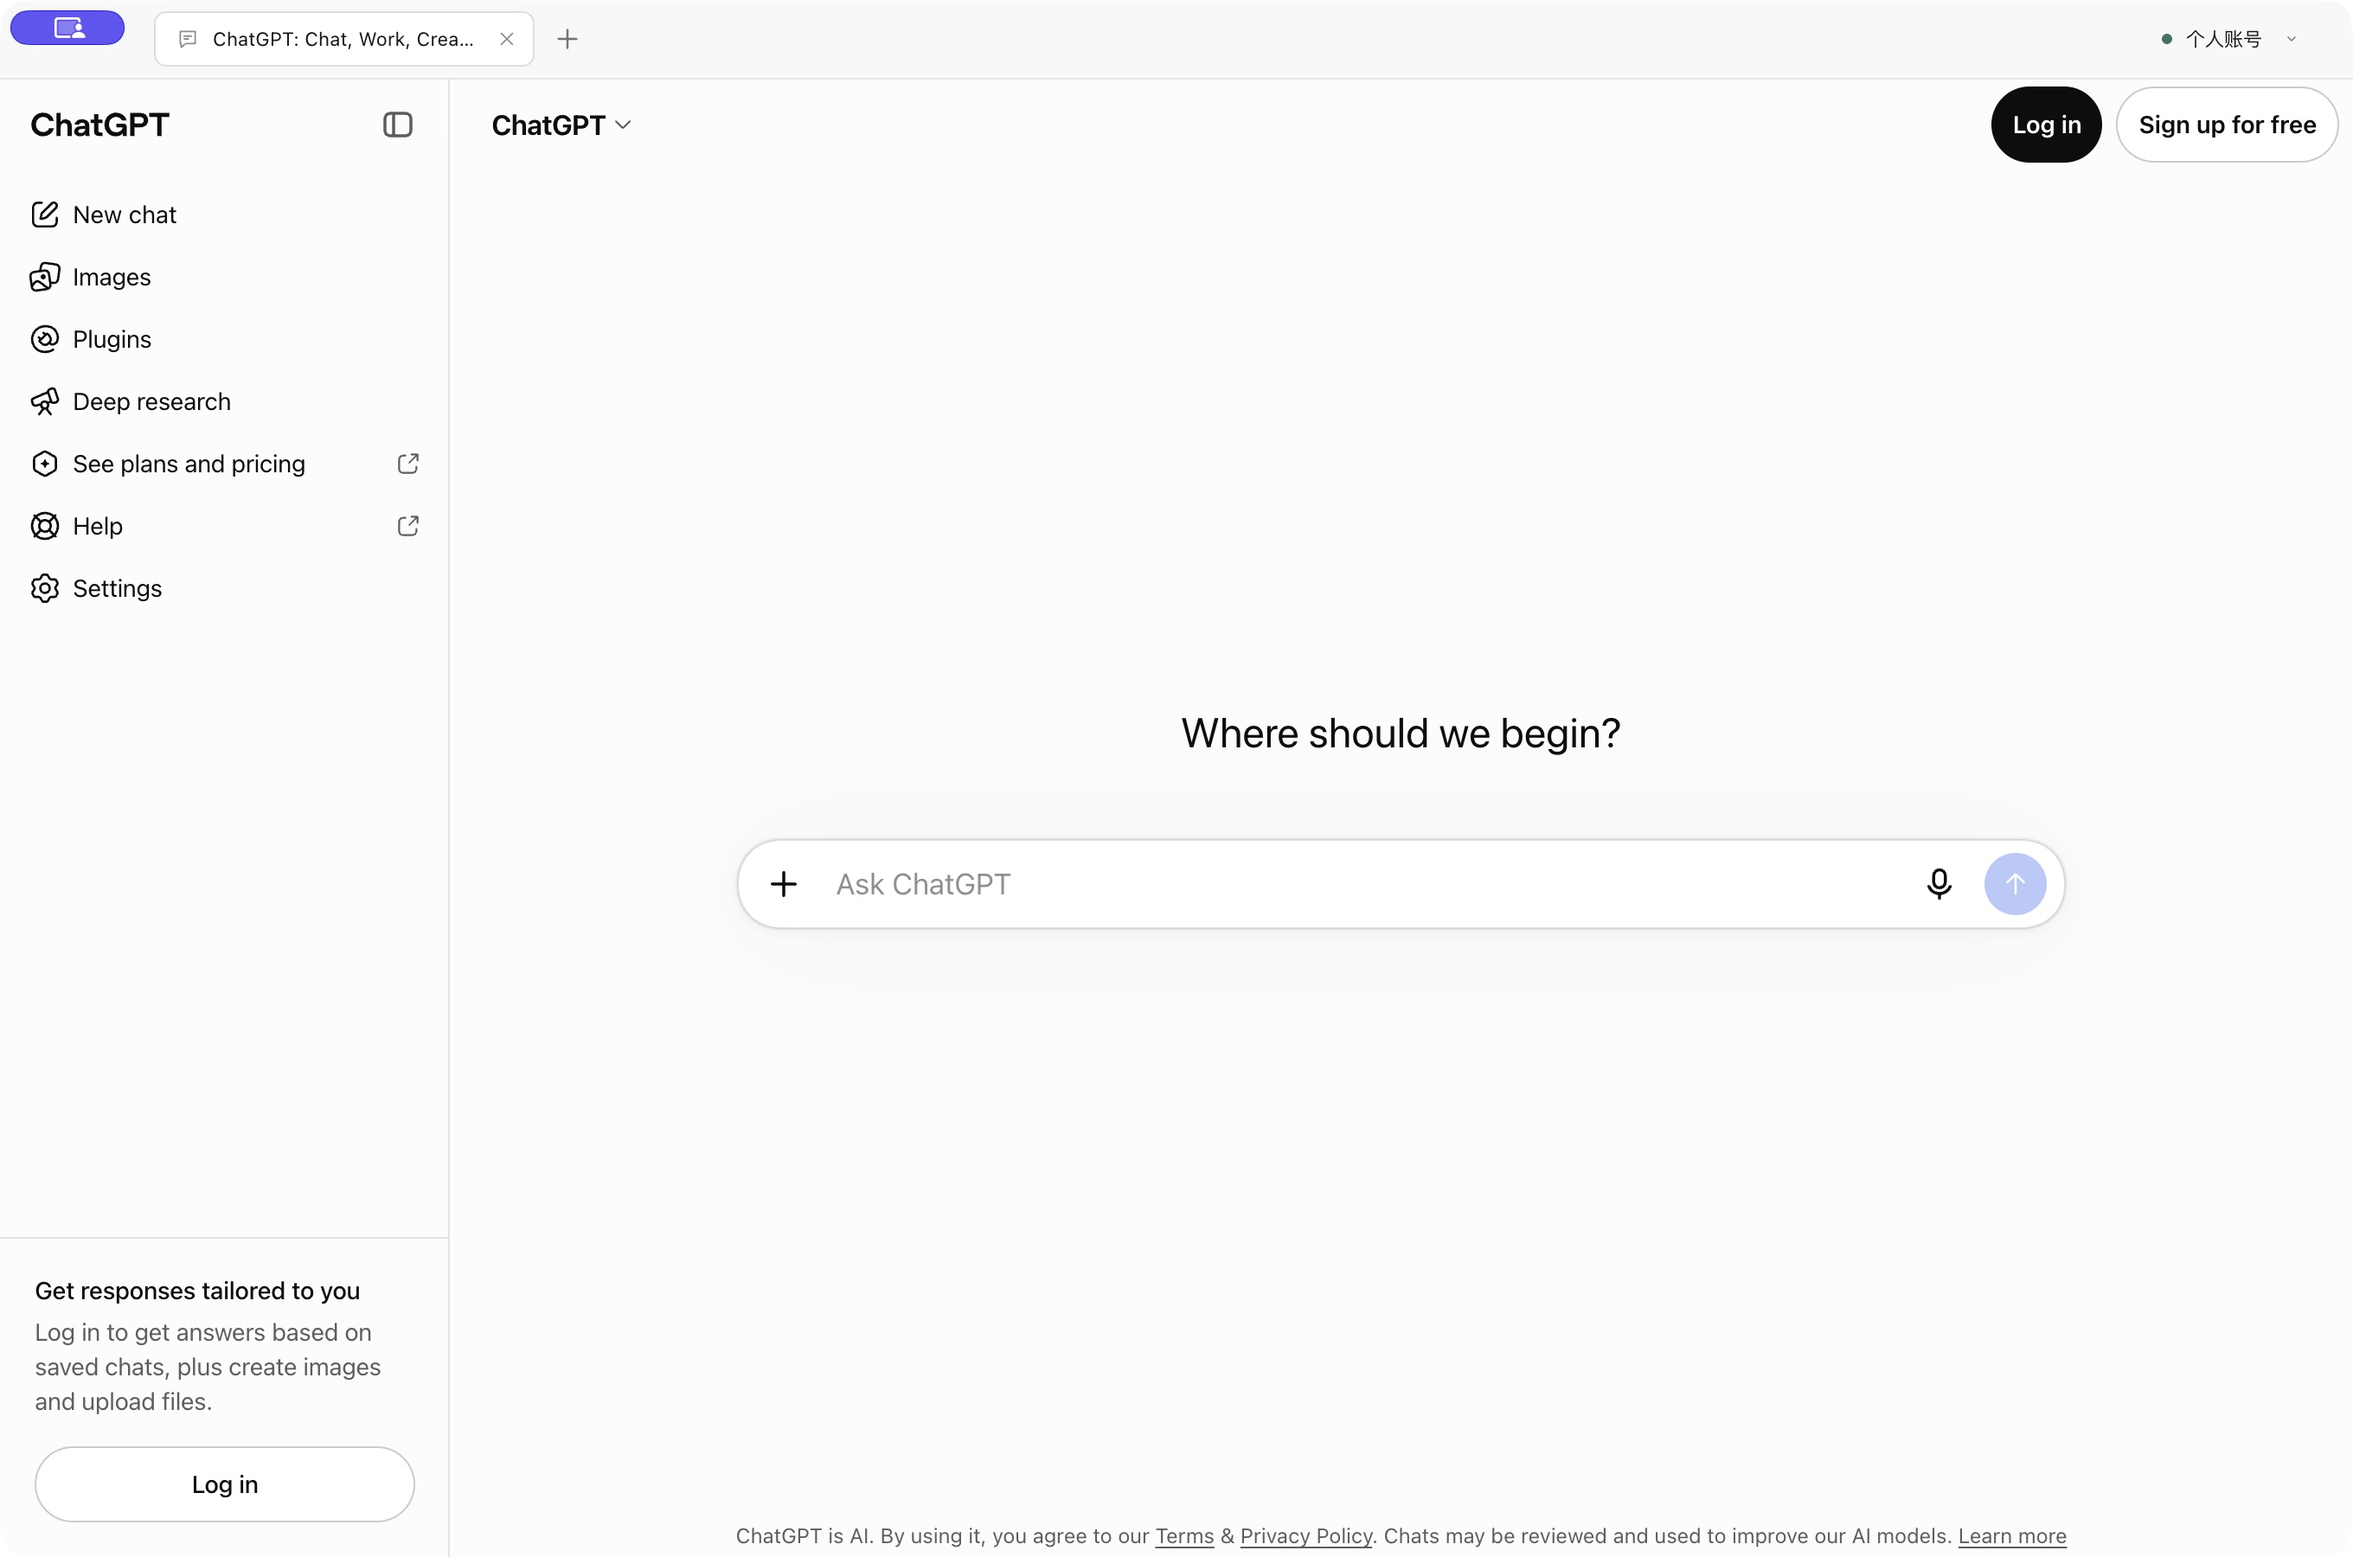
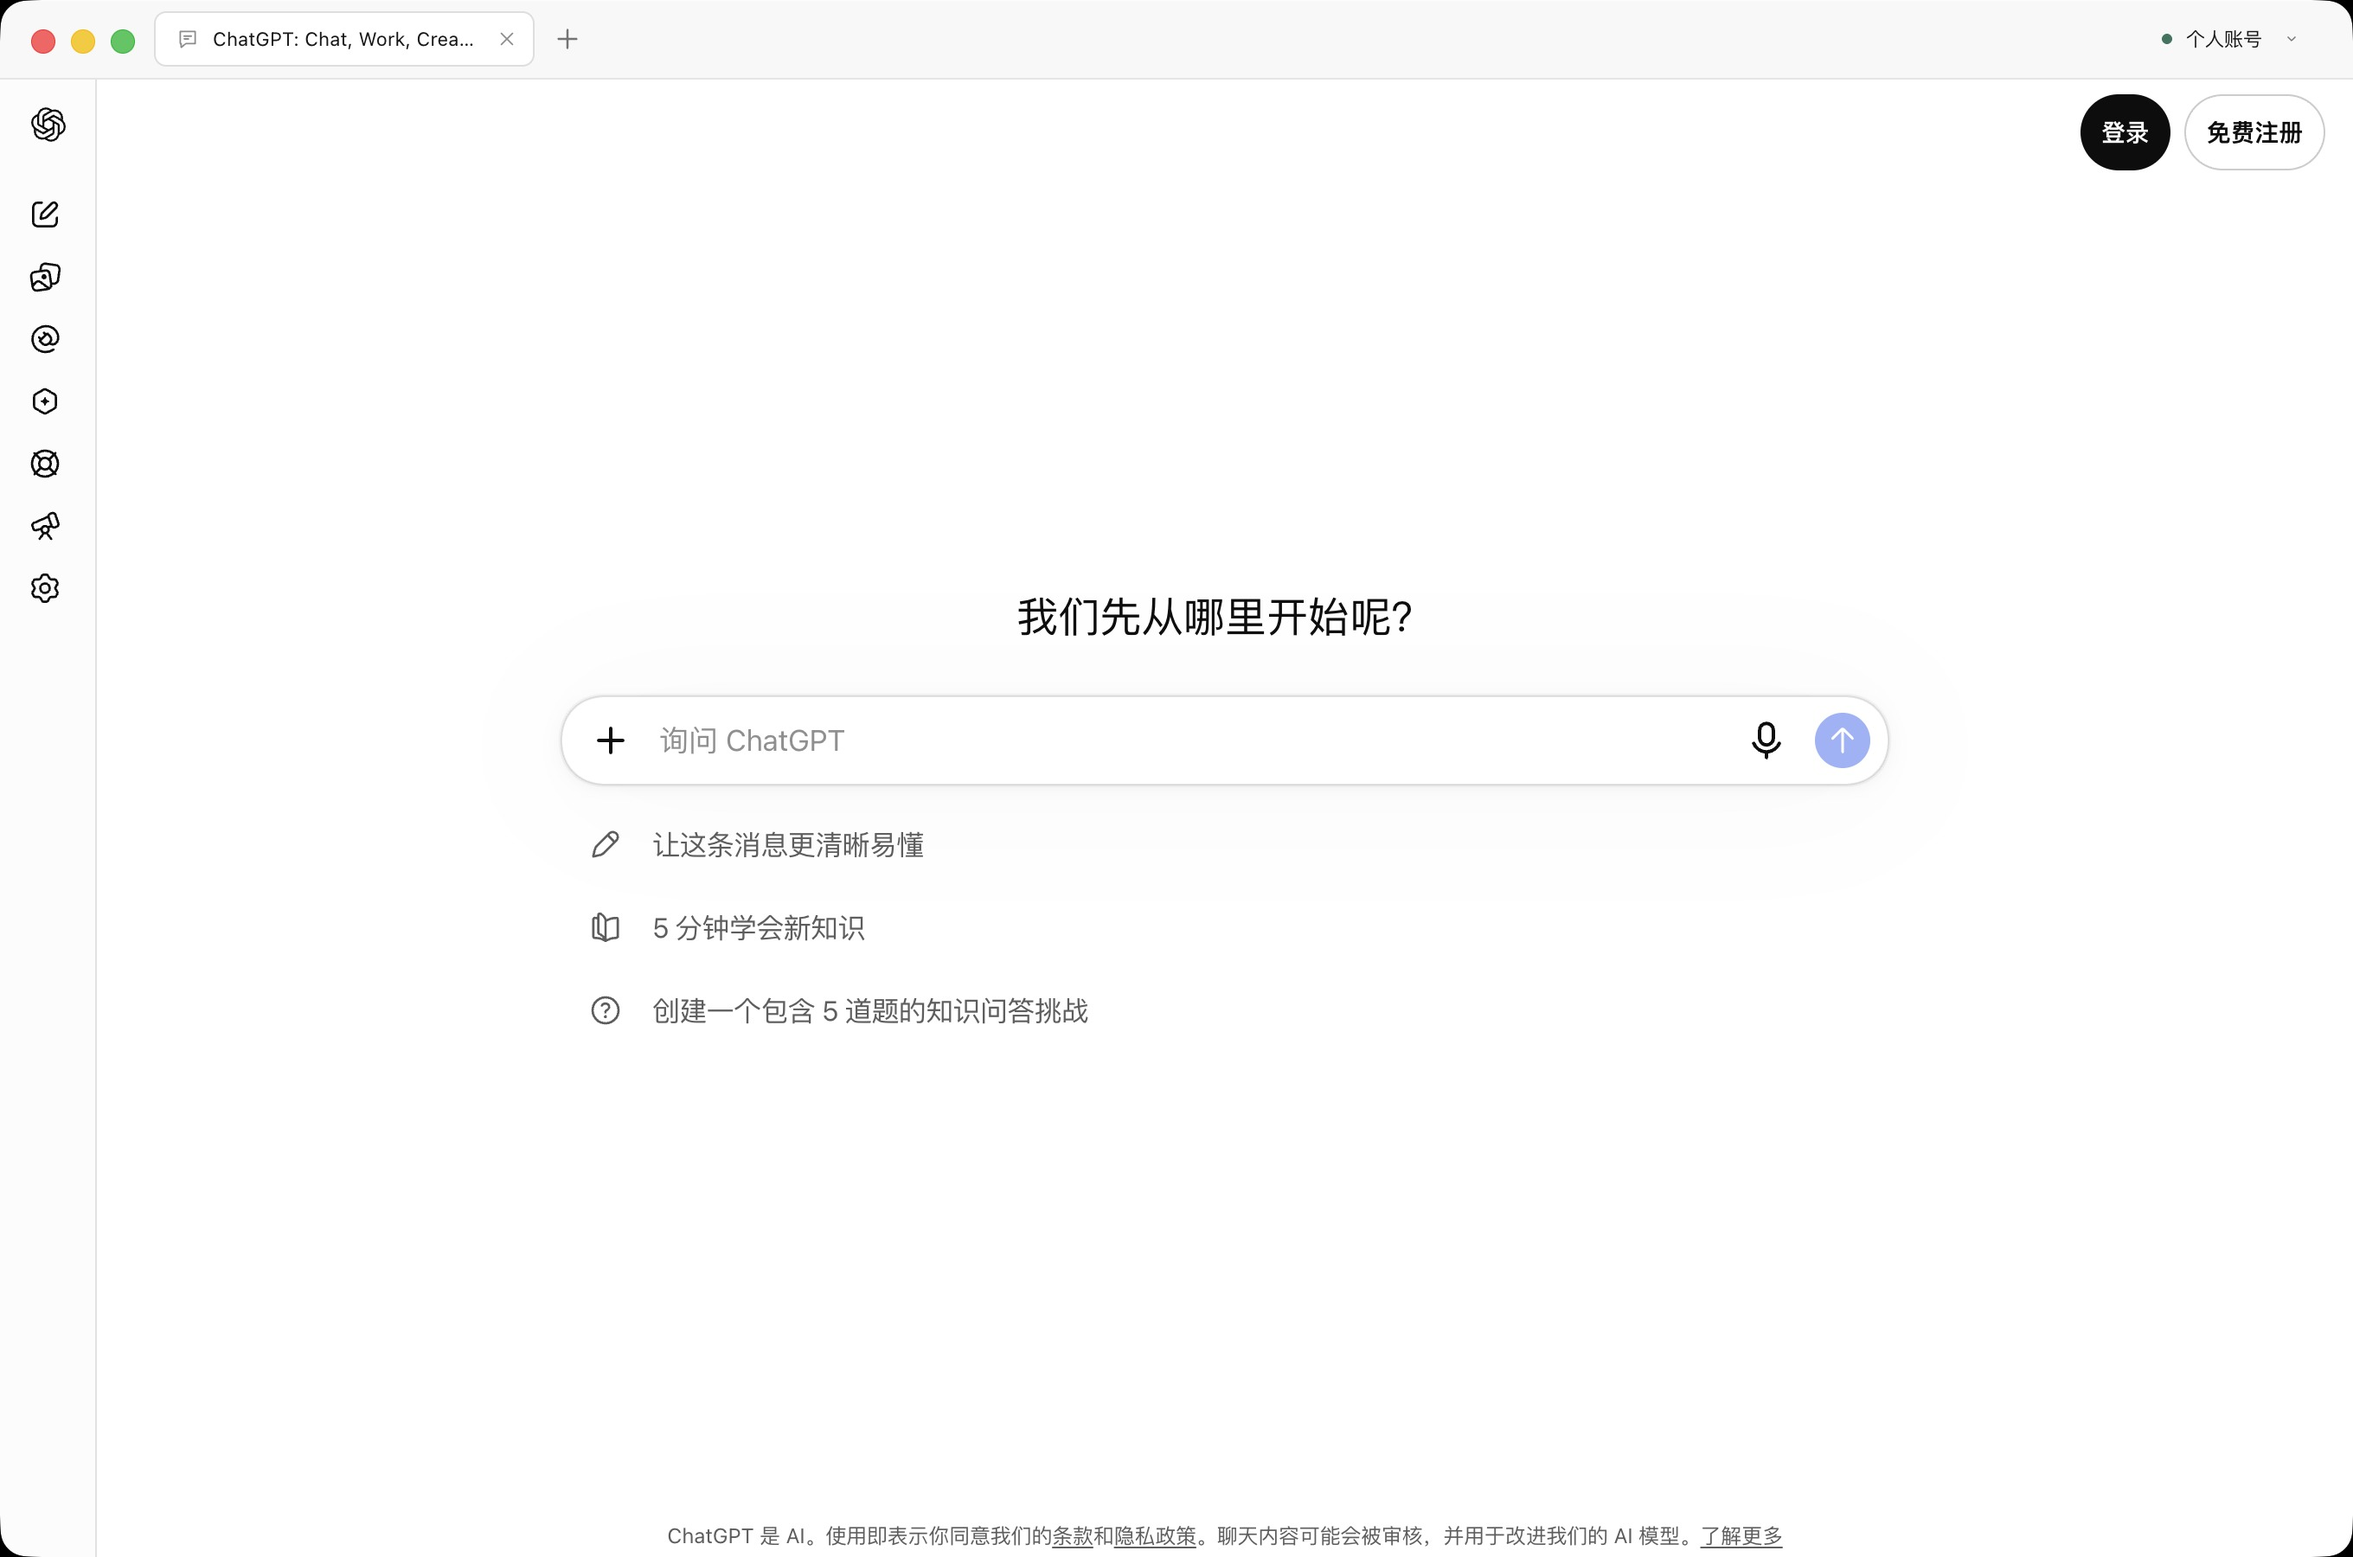
Replace macOS website screenshot with a clean native window

diff --git a/site/app.js b/site/app.js
@@ -8,9 +8,9 @@ const platforms = {
     height: 728,
   },
   macos: {
-    image: "macos-immersive.jpg",
-    caption: "macOS · 客户端实际截图 / 沉浸式网页",
-    alt: "macOS 客户端实际截图：ChatGPT 网页与顶部标签及账号菜单，没有地址栏。",
+    image: "macos-window.jpg",
+    caption: "macOS · 普通窗口实际截图 / 未登录 ChatGPT",
+    alt: "macOS 客户端普通窗口实际截图：原生窗口按钮、未登录 ChatGPT、顶部标签与账号菜单，没有地址栏或远程控制标记。",
     width: 2720,
     height: 1800,
   },
